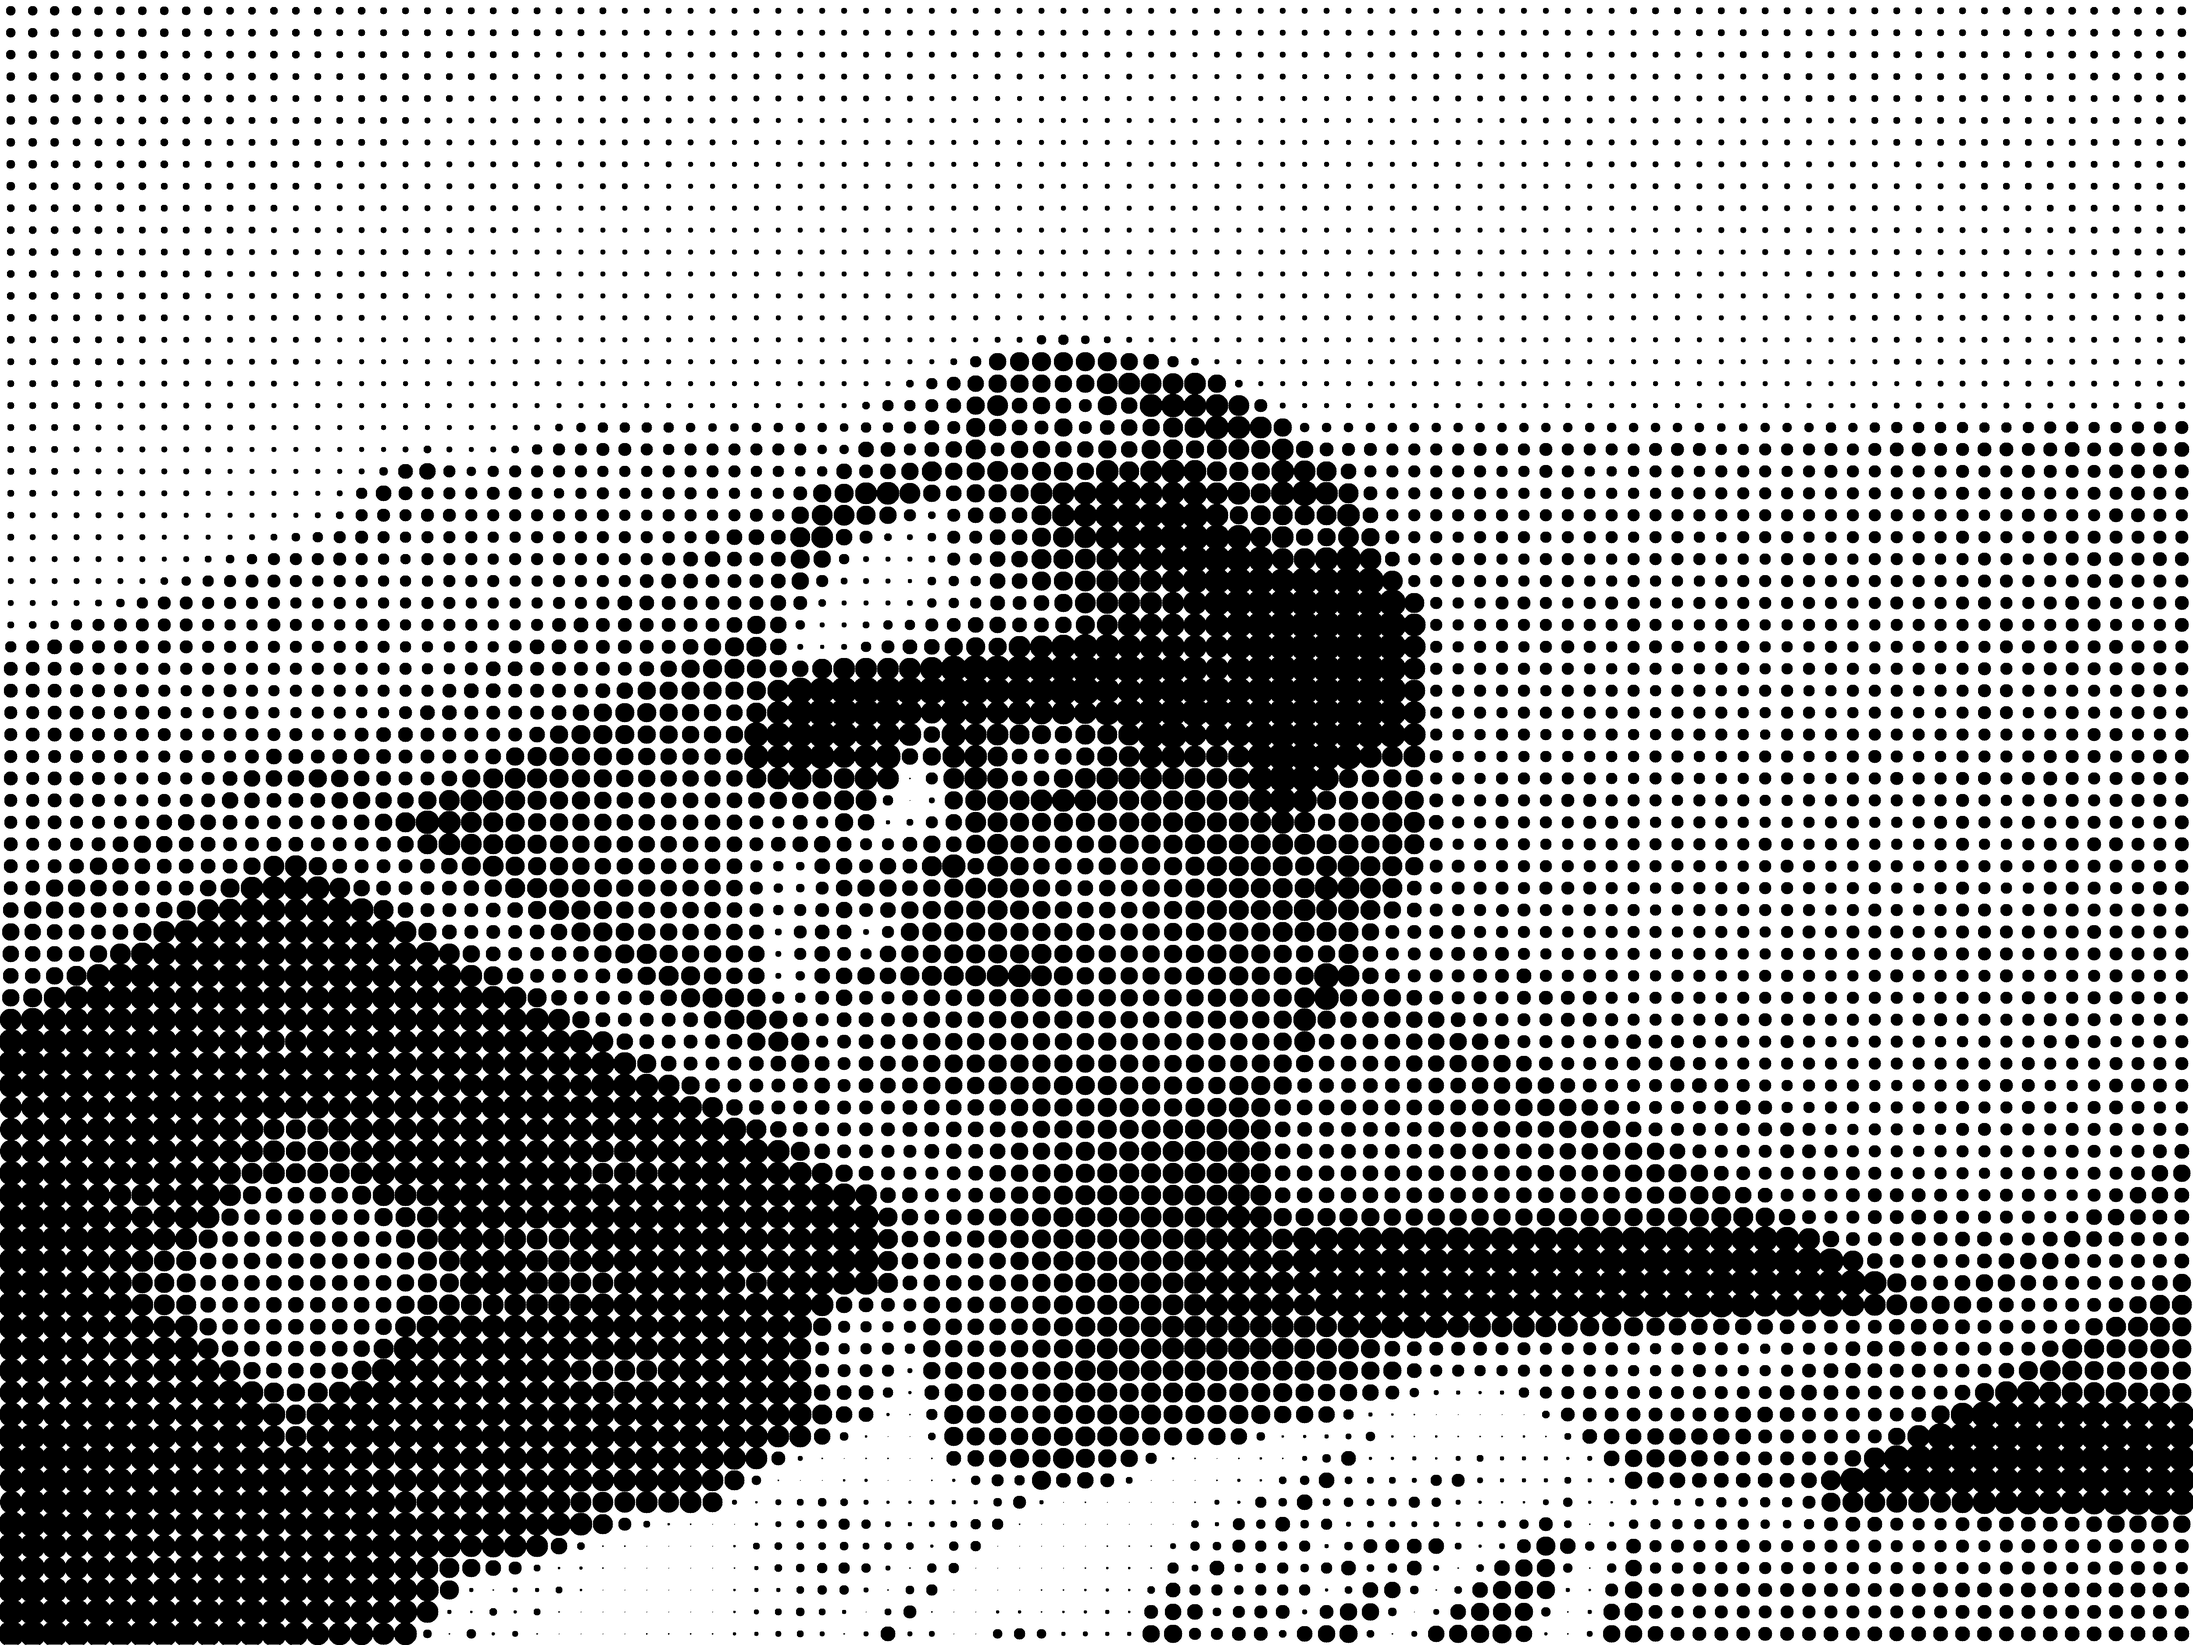
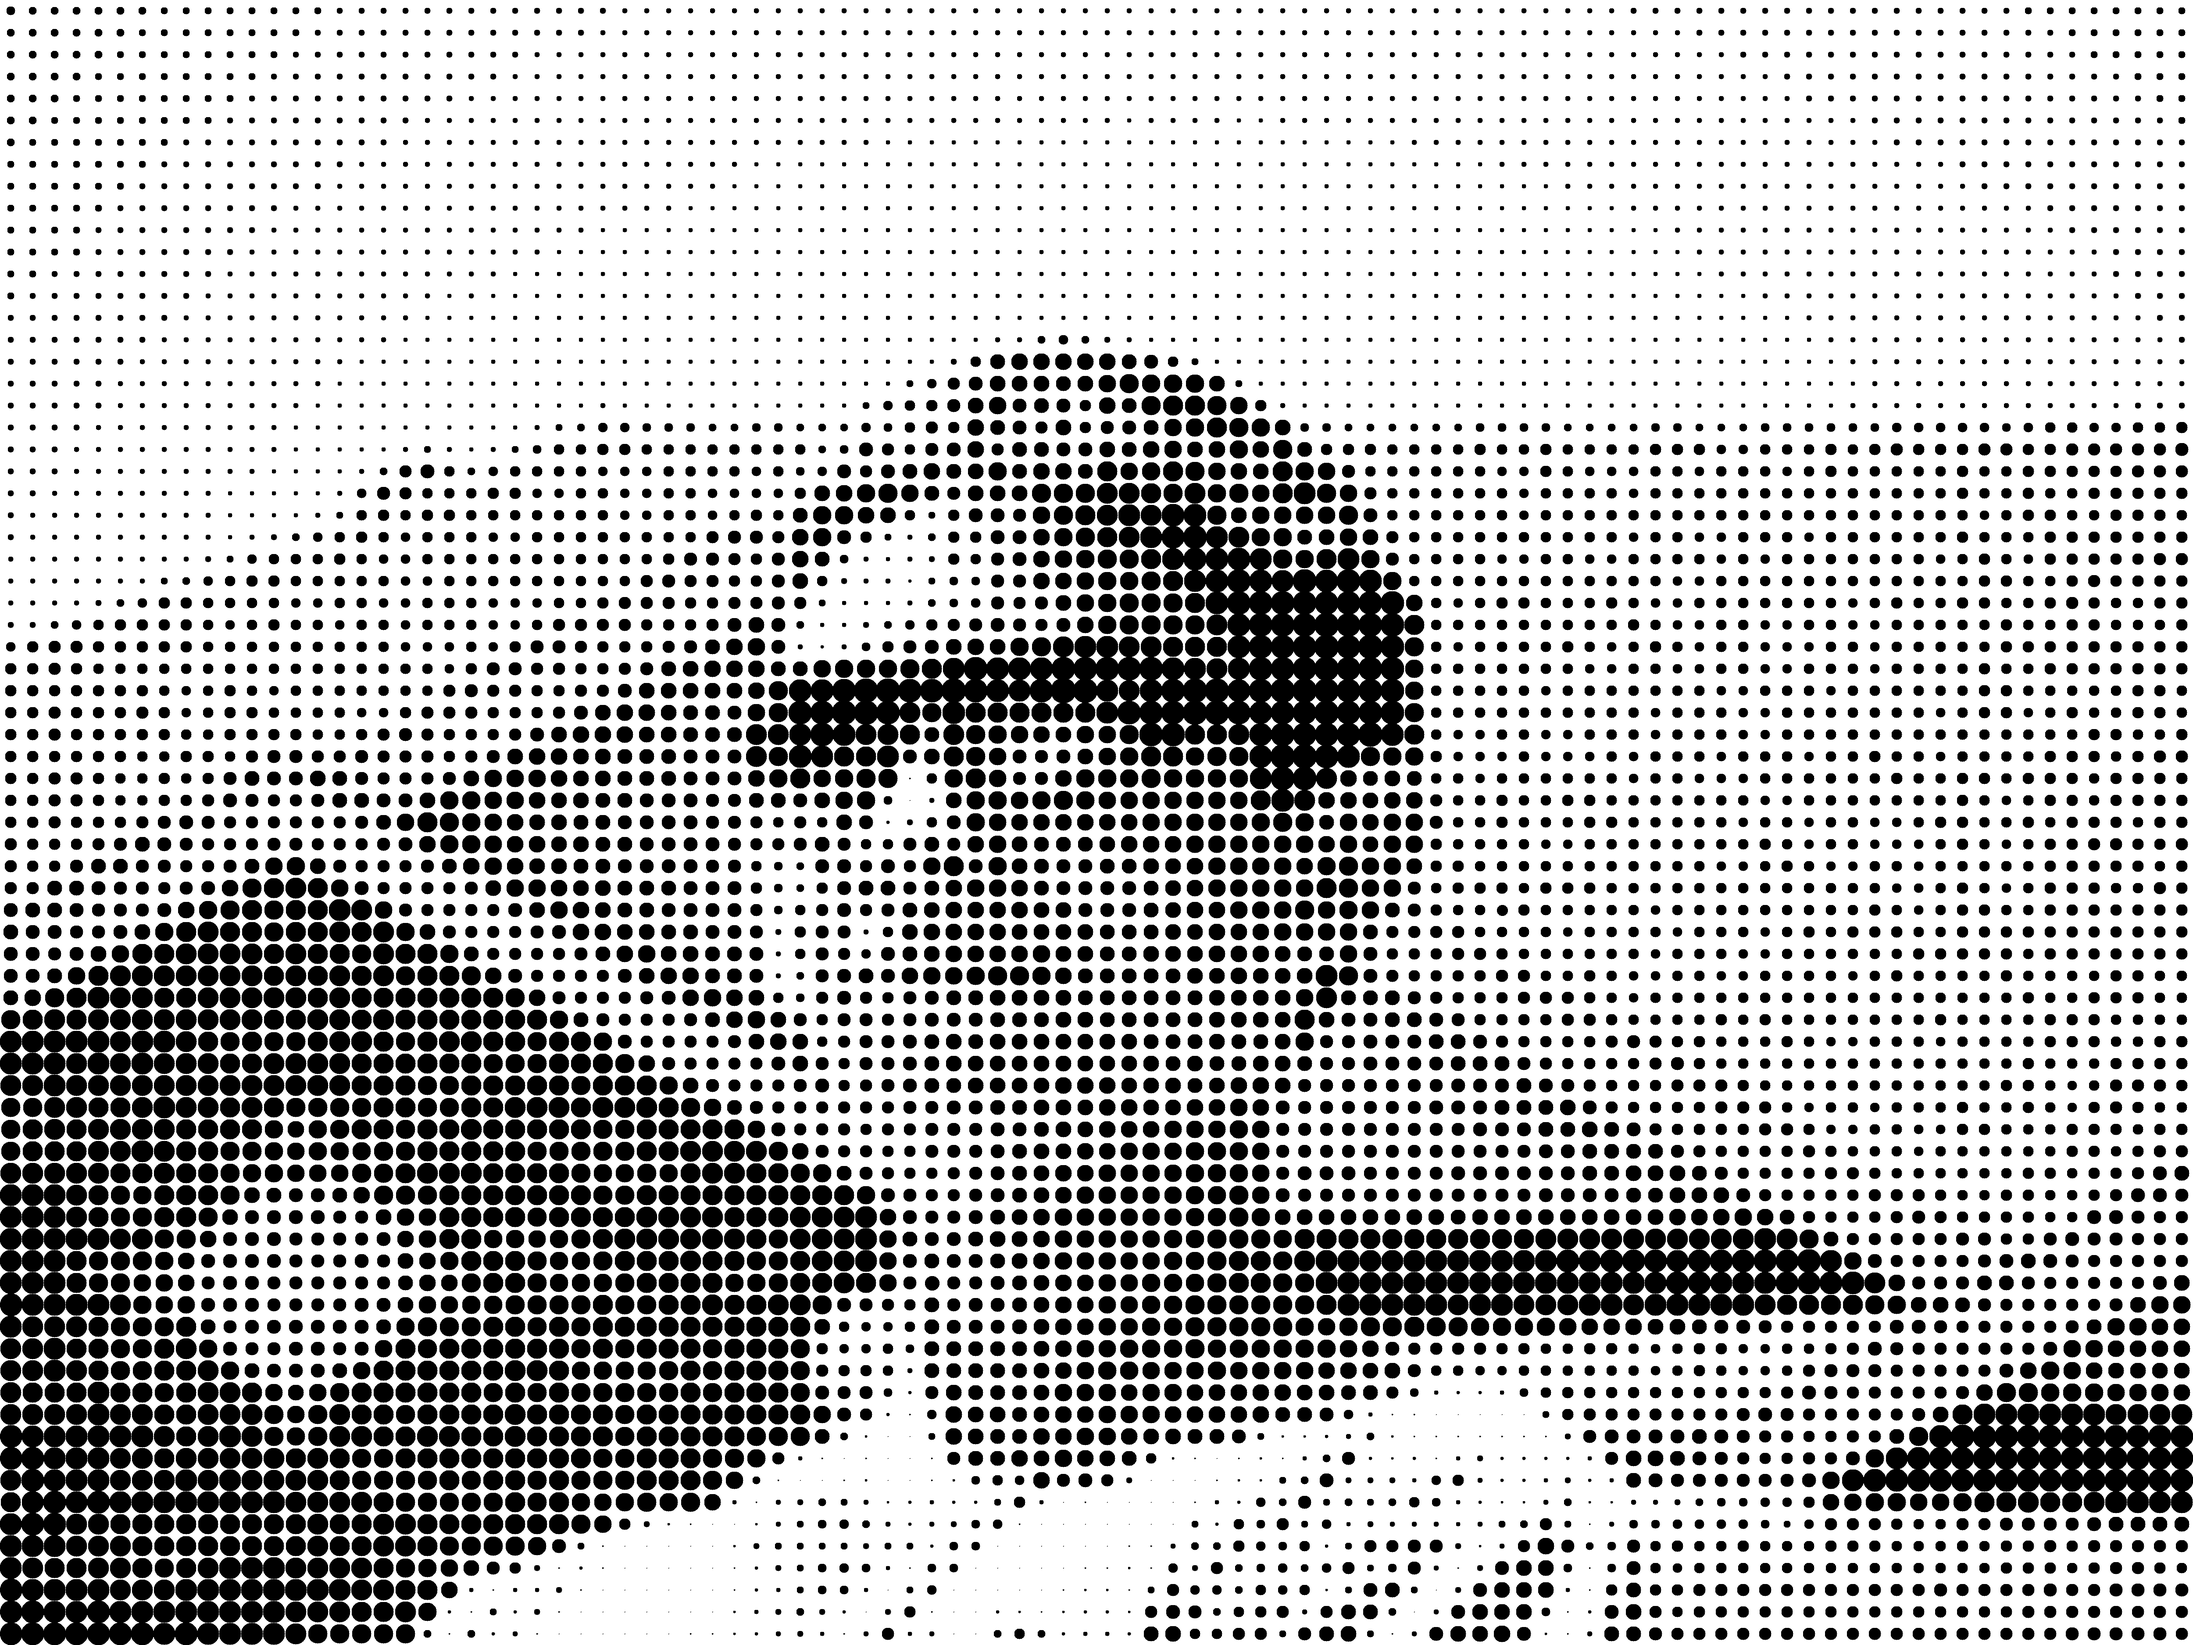
minor updates

diff --git a/circles.py b/circles.py
@@ -1,29 +1,11 @@
 from PIL import Image, ImageDraw
-
-im = Image.open( "in.png" )
-width = im.size[0]
-height = im.size[1]
-
-scale = 5
-image = Image.new('RGBA', (width*scale, height*scale))
-draw = ImageDraw.Draw(image)
-
-def circle(x, y, r):
-  draw.ellipse((scale*(x-r), scale*(y-r), scale*(x+r), scale*(y+r) ), fill = 'black', outline ='black')
-
-#do u even use?
-def bw( c ):
-  sum = c[0] + c[1] + c[2]
-  if ( sum < 383 ):
-    return 1
-  else:
-    return 0
     
 def ave_color(xx, yy, n, img):
   r, g, b = 0, 0, 0
   count = 0
   for x in range(xx, xx+n):
     for y in range(yy, yy+n):
+      #print( x, y)
       count += 1
       p = img.getpixel( (x,y) )
       r+= p[0]
@@ -38,20 +20,32 @@ def ave_color(xx, yy, n, img):
   return c
   
 
-def scan(img, step):
-  block = int( width / step )
-  print( block )
-  for x in range(0, width, block):
-    for y in range(0, height, block):
-      print(x, y)
+def scan(img, step, scale):
+  w = img.size[0]
+  h = img.size[1]
+  block = int( w / step )
+  width = block * step
+  height = h // block * block
+  print( w, h, width, height )
+  img = img.crop((0, 0, width, height))
+  
+  image = Image.new('RGBA', (width*scale, height*scale))
+  draw = ImageDraw.Draw(image)
+  def circle(x, y, r):
+    draw.ellipse((scale*(x-r), scale*(y-r), scale*(x+r), scale*(y+r) ), fill = "black")
+
+  #better way to handle 
+  for x in range(0, width , block):
+    for y in range(0, height , block):
       darkness = 1 - ave_color(x, y, block, img)[3]/255
-      radius = block / 2 * darkness * 1.4
-      print( radius )
+      radius = block / 2 * darkness * 1.25
+      print(x, y, radius)
       
       circle( x+block/2, y+block/2, radius)
 
+  image.save('c.png')
 
-scan(im, 300)
-#ave_color(0,0,100,im)
-  
-image.save('out.png')
+im = Image.open( "c.jpg" )
+
+
+scan(im, 150, 5)
